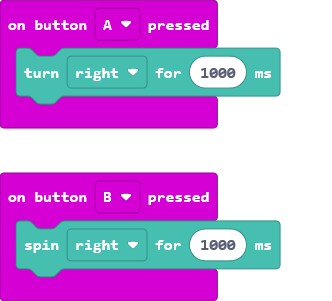
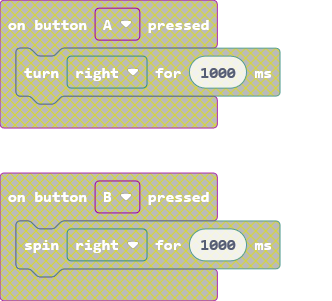
Removing blocks from main.blocks

diff --git a/main.ts b/main.ts
@@ -1,9 +1,3 @@
-input.onButtonPressed(Button.A, function () {
-    gigglebot.turnMillisec(gigglebotWhichTurnDirection.Right, 1000)
-})
-input.onButtonPressed(Button.B, function () {
-    gigglebot.spinMillisec(gigglebotWhichTurnDirection.Right, 1000)
-})
 basic.forever(function () {
 	
 })
